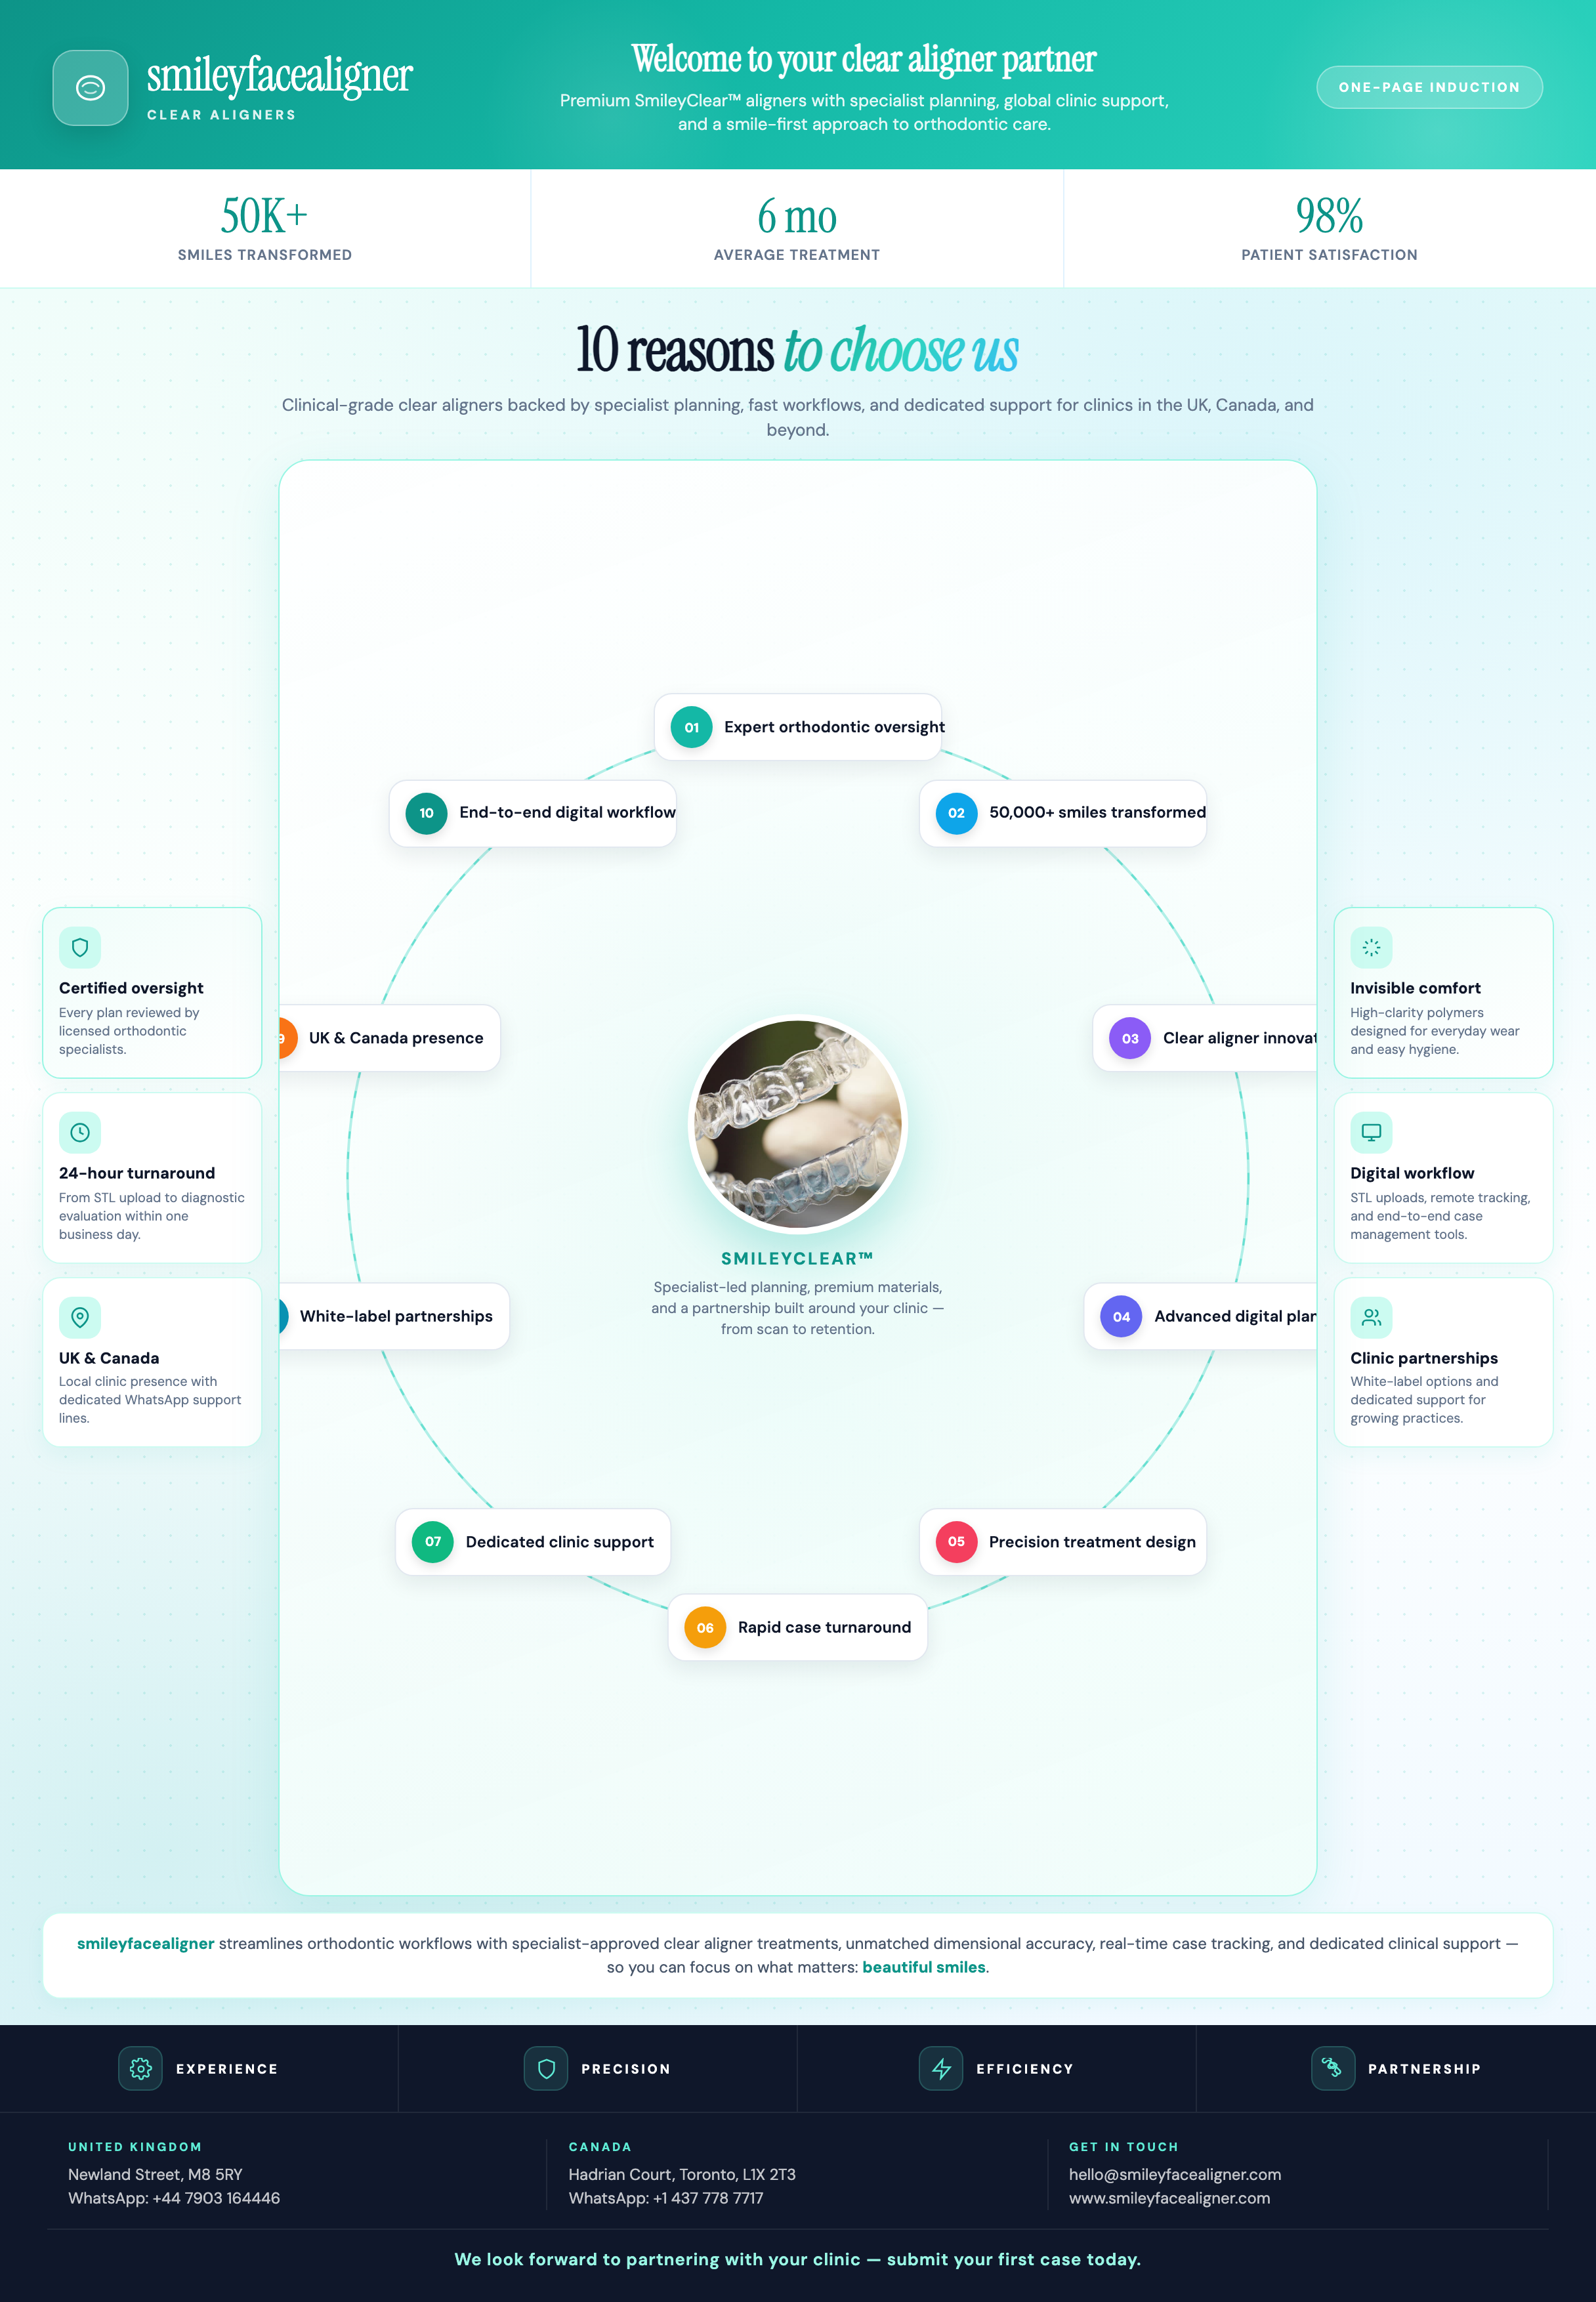
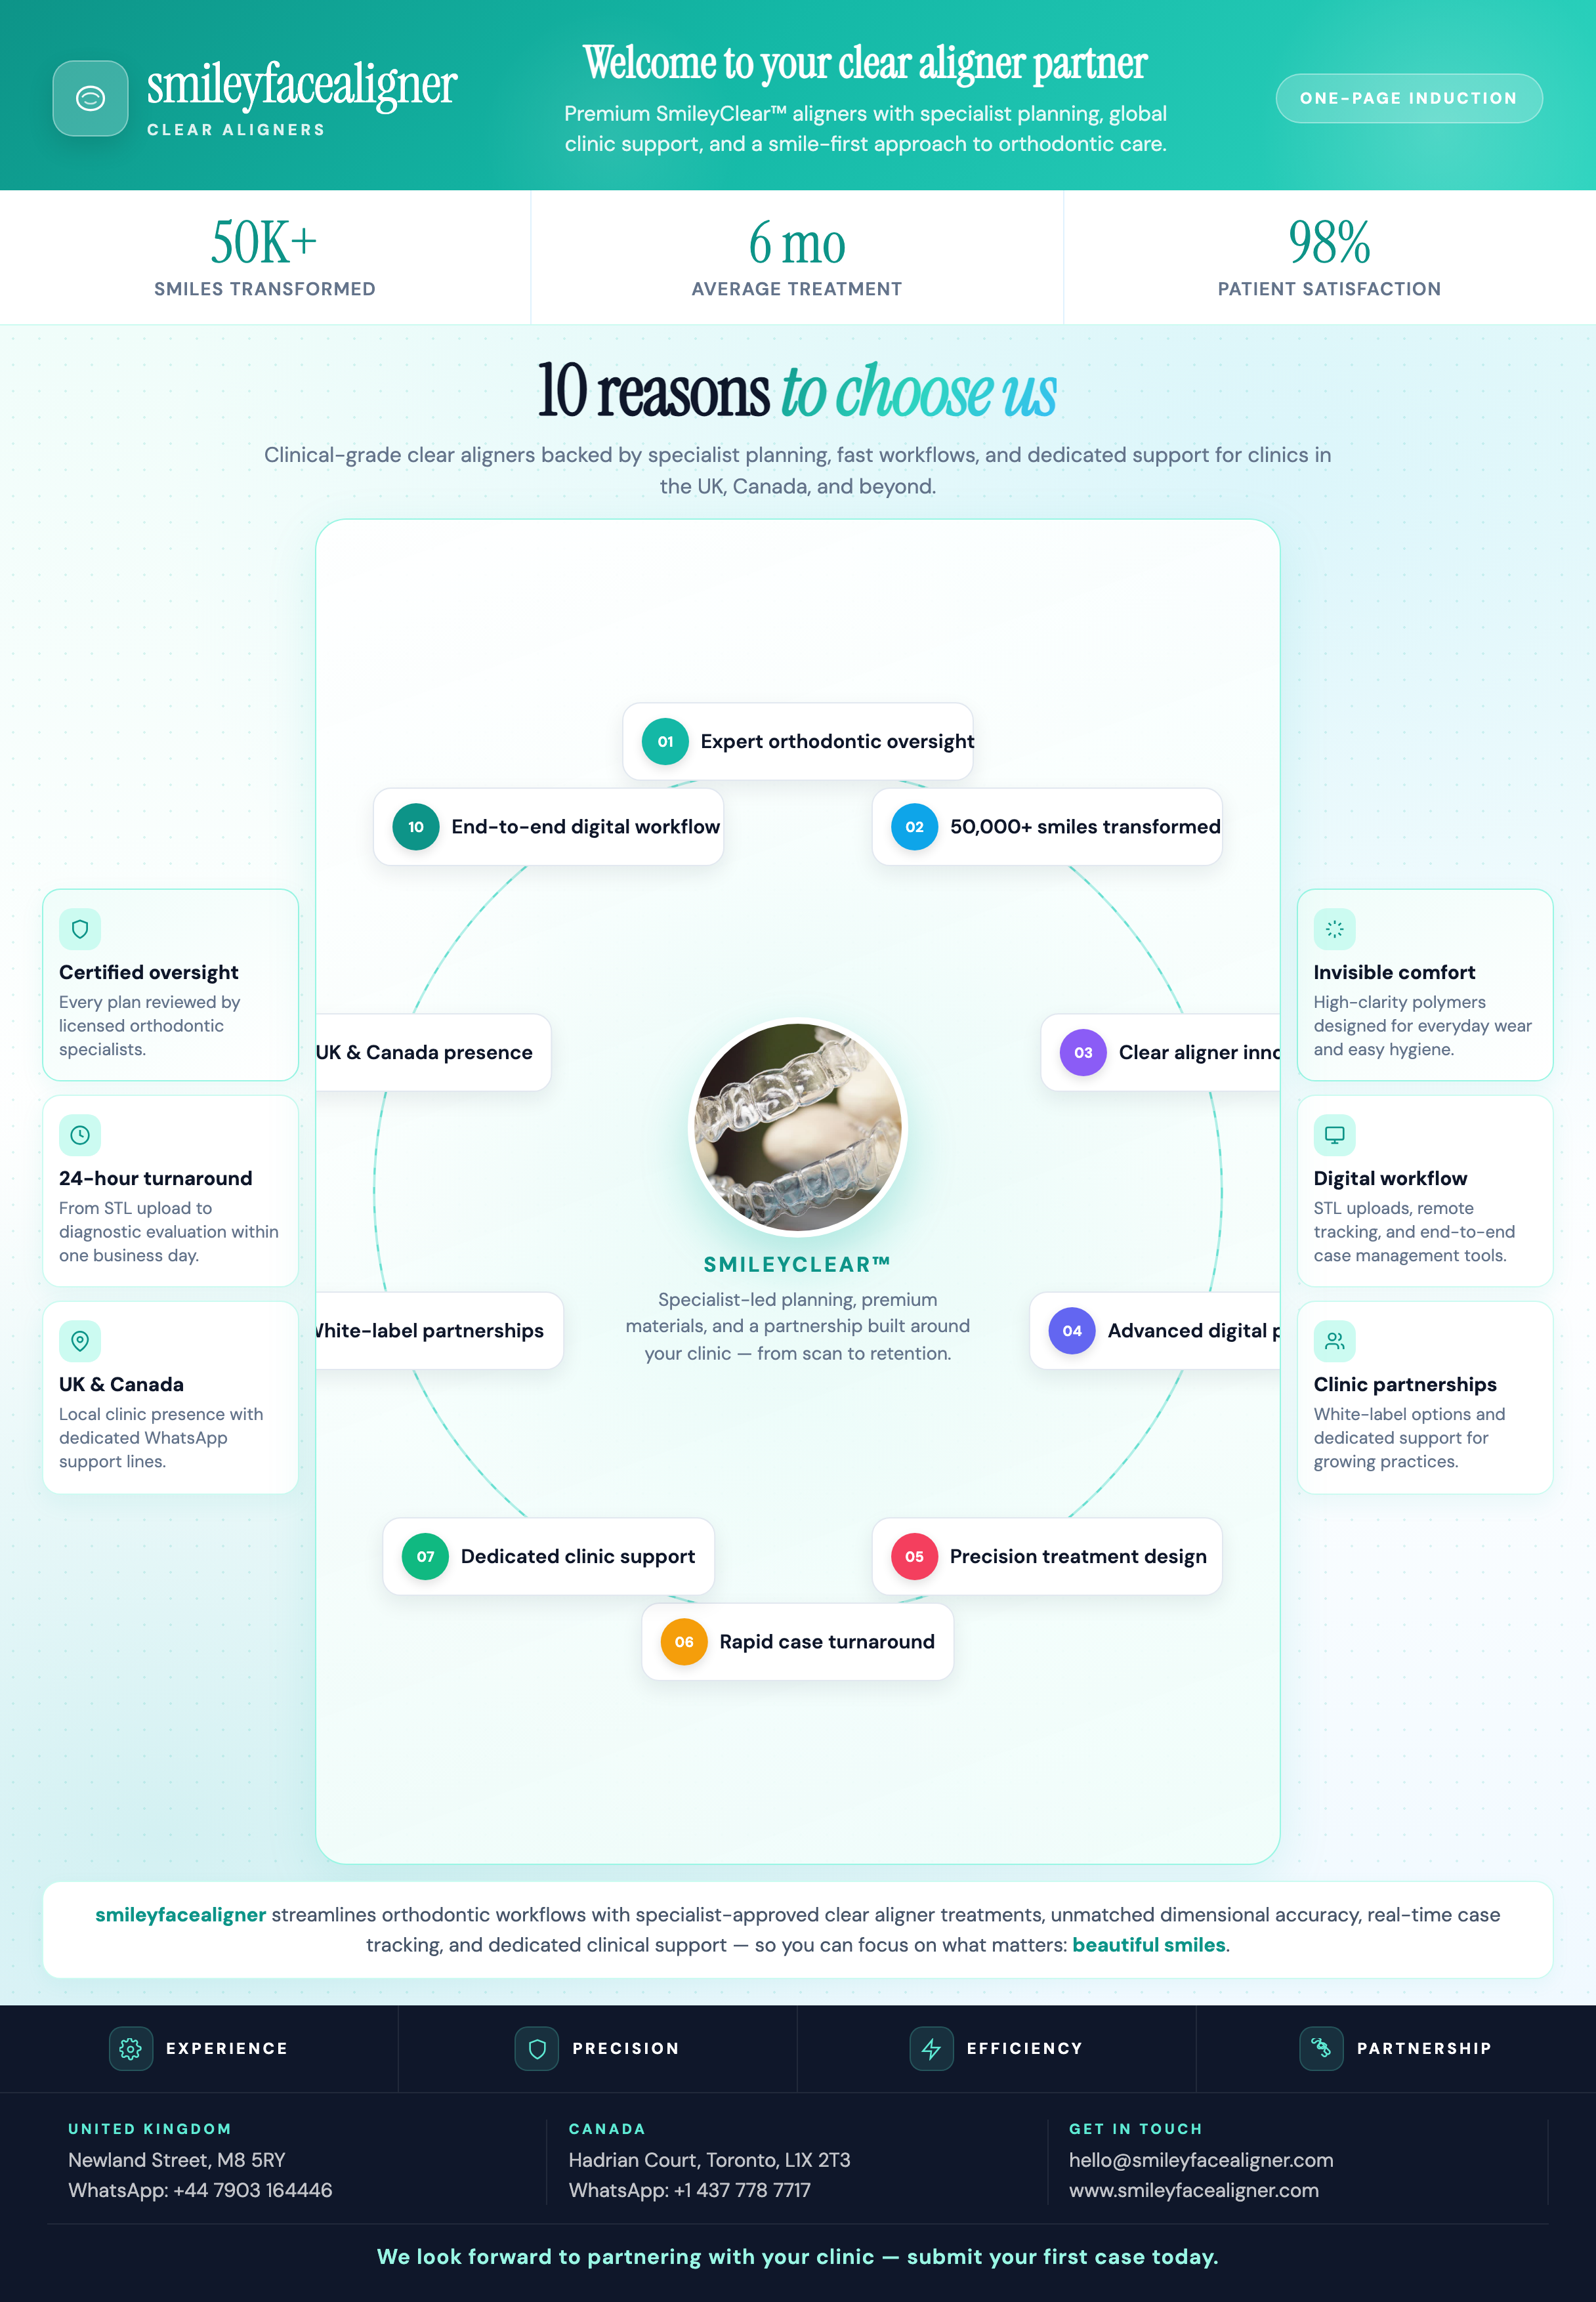
Hide induction section and enlarge brochure typography.
Temporarily comment out the Why Choose Us one-page induction block on the site, and bump brochure font sizes with an updated PNG export.

diff --git a/brochures/induction-brochure.html b/brochures/induction-brochure.html
@@ -92,14 +92,14 @@
 
     .brand-name {
       font-family: "Instrument Serif", Georgia, serif;
-      font-size: 36px;
+      font-size: 42px;
       line-height: 1;
       color: white;
       letter-spacing: -0.02em;
     }
 
     .brand-tag {
-      font-size: 10px;
+      font-size: 12px;
       font-weight: 700;
       letter-spacing: 0.22em;
       text-transform: uppercase;
@@ -115,14 +115,14 @@
 
     .welcome-copy h2 {
       font-family: "Instrument Serif", Georgia, serif;
-      font-size: 28px;
+      font-size: 34px;
       color: white;
       line-height: 1.2;
     }
 
     .welcome-copy p {
       margin-top: 6px;
-      font-size: 13px;
+      font-size: 16px;
       color: rgba(255,255,255,0.88);
       line-height: 1.45;
       max-width: 480px;
@@ -131,12 +131,12 @@
     }
 
     .badge {
-      padding: 9px 16px;
+      padding: 10px 18px;
       border-radius: 999px;
       background: rgba(255,255,255,0.2);
       border: 1px solid rgba(255,255,255,0.35);
       color: white;
-      font-size: 10px;
+      font-size: 12px;
       font-weight: 700;
       letter-spacing: 0.16em;
       text-transform: uppercase;
@@ -162,14 +162,14 @@
 
     .stat-value {
       font-family: "Instrument Serif", Georgia, serif;
-      font-size: 36px;
+      font-size: 44px;
       color: #0d9488;
       line-height: 1;
     }
 
     .stat-label {
       margin-top: 4px;
-      font-size: 11px;
+      font-size: 14px;
       font-weight: 600;
       color: #64748b;
       text-transform: uppercase;
@@ -207,7 +207,7 @@
 
     .panel-head h1 {
       font-family: "Instrument Serif", Georgia, serif;
-      font-size: 46px;
+      font-size: 54px;
       line-height: 1.05;
       letter-spacing: -0.02em;
     }
@@ -222,7 +222,7 @@
 
     .panel-head p {
       margin-top: 8px;
-      font-size: 13px;
+      font-size: 16px;
       line-height: 1.5;
       color: #64748b;
       max-width: 820px;
@@ -237,7 +237,7 @@
       flex: 1;
       min-height: 0;
       display: grid;
-      grid-template-columns: 168px 1fr 168px;
+      grid-template-columns: 196px 1fr 196px;
       gap: 12px;
       align-items: stretch;
     }
@@ -277,7 +277,7 @@
     .side-card .icon svg { width: 16px; height: 16px; }
 
     .side-card h4 {
-      font-size: 12px;
+      font-size: 15px;
       font-weight: 700;
       color: #0f172a;
       line-height: 1.3;
@@ -285,7 +285,7 @@
     }
 
     .side-card p {
-      font-size: 10px;
+      font-size: 13px;
       line-height: 1.4;
       color: #64748b;
     }
@@ -334,7 +334,7 @@
       transform: translate(-50%, -50%);
       z-index: 5;
       text-align: center;
-      width: 240px;
+      width: 280px;
     }
 
     .orbit-hub .center-image {
@@ -355,7 +355,7 @@
     }
 
     .orbit-hub .product-name {
-      font-size: 13px;
+      font-size: 16px;
       font-weight: 700;
       color: #0d9488;
       letter-spacing: 0.12em;
@@ -364,7 +364,7 @@
 
     .orbit-hub .hub-desc {
       margin-top: 6px;
-      font-size: 11px;
+      font-size: 14px;
       line-height: 1.45;
       color: #64748b;
       padding: 0 8px;
@@ -379,19 +379,19 @@
       background: white;
       border: 1px solid #e2e8f0;
       border-radius: 14px;
-      padding: 9px 12px;
+      padding: 11px 14px;
       box-shadow: 0 6px 16px rgba(15,23,42,0.08);
       transform: translate(-50%, -50%);
-      max-width: 220px;
+      max-width: 268px;
       white-space: nowrap;
     }
 
     .reason-num {
-      width: 32px;
-      height: 32px;
+      width: 36px;
+      height: 36px;
       border-radius: 50%;
       color: white;
-      font-size: 10px;
+      font-size: 11px;
       font-weight: 700;
       display: flex;
       align-items: center;
@@ -401,7 +401,7 @@
     }
 
     .reason-text {
-      font-size: 12px;
+      font-size: 15px;
       font-weight: 600;
       line-height: 1.2;
       color: #0f172a;
@@ -426,7 +426,7 @@
       background: white;
       border: 1px solid #ccfbf1;
       border-radius: 14px;
-      font-size: 12px;
+      font-size: 15px;
       line-height: 1.5;
       color: #475569;
       text-align: center;
@@ -476,7 +476,7 @@
     .pillar-icon svg { width: 17px; height: 17px; }
 
     .pillar span {
-      font-size: 10px;
+      font-size: 12px;
       font-weight: 700;
       letter-spacing: 0.18em;
       text-transform: uppercase;
@@ -497,7 +497,7 @@
     .footer-block:last-child { border-right: none; }
 
     .footer-block h4 {
-      font-size: 9px;
+      font-size: 11px;
       font-weight: 700;
       letter-spacing: 0.2em;
       text-transform: uppercase;
@@ -506,7 +506,7 @@
     }
 
     .footer-block p {
-      font-size: 12px;
+      font-size: 15px;
       line-height: 1.5;
       color: rgba(255,255,255,0.75);
     }
@@ -517,7 +517,7 @@
       padding-top: 14px;
       border-top: 1px solid rgba(255,255,255,0.08);
       text-align: center;
-      font-size: 13px;
+      font-size: 16px;
       font-weight: 600;
       color: #99f6e4;
       letter-spacing: 0.04em;

diff --git a/src/App.tsx b/src/App.tsx
@@ -8,7 +8,7 @@ import SectionHeading from './components/SectionHeading';
 import OrthodonticSolutions from './components/OrthodonticSolutions';
 import CaseSubmissionForm from './components/CaseSubmissionForm';
 import TreatableCases from './components/TreatableCases';
-import WhyChooseUs from './components/WhyChooseUs';
+// import WhyChooseUs from './components/WhyChooseUs';
 
 const steps = [
   { num: '01', title: '3D Digital Scan', desc: 'No messy impressions. Thousands of depth points map your teeth in under 3 minutes.' },
@@ -38,7 +38,8 @@ export default function App() {
       <HeroStats />
       <OrthodonticSolutions />
 
-      <WhyChooseUs />
+      {/* One-page induction section — temporarily hidden */}
+      {/* <WhyChooseUs /> */}
 
       <TreatableCases />
 